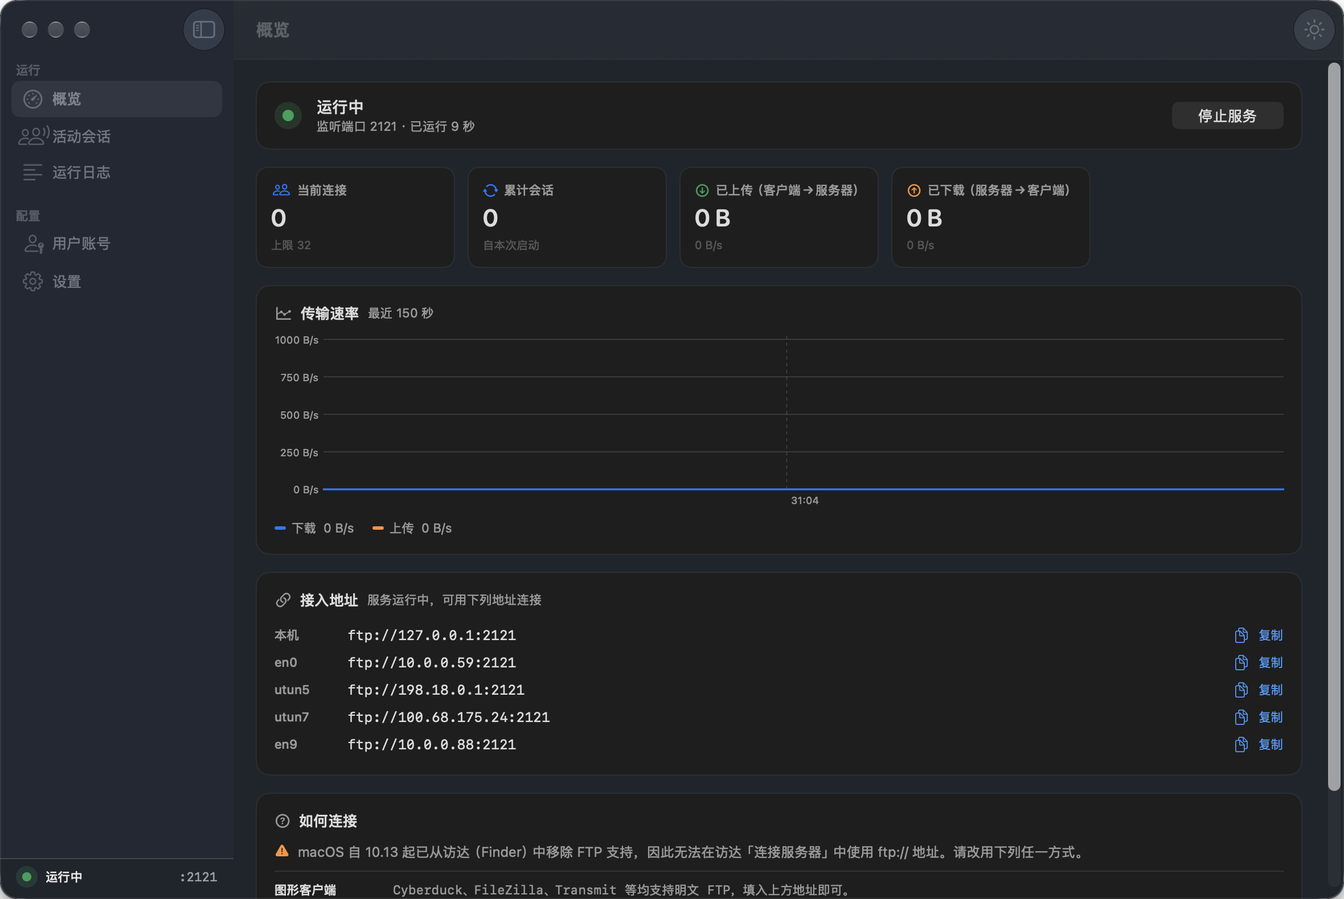
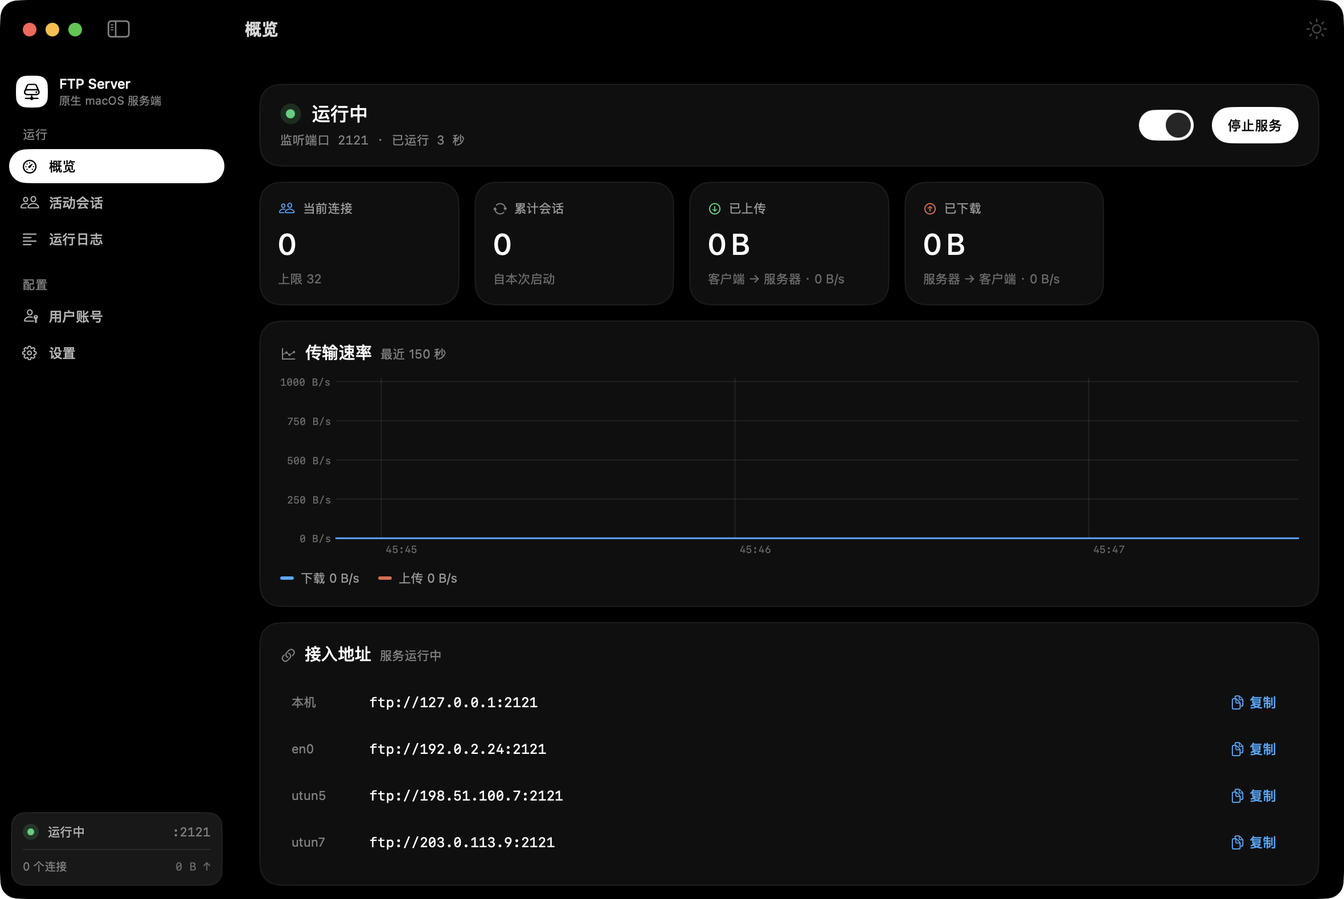
官网与文档：仓库改名为 FTPServer，更新链接与截图
- 仓库地址、Releases 链接、API 端点与 clone 目录名统一改为 FTPServer
- 截图按新界面重拍；接入地址改用 RFC 5737 保留地址，原图含真实内网与 Tailscale IP
- 新增 HANDOVER.md 交接文档，绝对路径与个人标识已脱敏

diff --git a/docs/index.html b/docs/index.html
@@ -265,7 +265,7 @@
       <a href="#commands" class="hide-sm">命令</a>
       <a href="#security" class="hide-sm">安全</a>
       <a href="#build" class="hide-sm">源码构建</a>
-      <a href="https://github.com/zdx8/FTPServer-macOS" class="hide-sm">GitHub</a>
+      <a href="https://github.com/zdx8/FTPServer" class="hide-sm">GitHub</a>
       <a href="#download" class="dl">下载</a>
     </nav>
   </div>
@@ -284,7 +284,7 @@
     <span class="badge">MIT 许可</span>
   </div>
   <div class="cta">
-    <a class="btn primary big" href="https://github.com/zdx8/FTPServer-macOS/releases/latest/download/FTPServer-macOS-universal.zip">
+    <a class="btn primary big" href="https://github.com/zdx8/FTPServer/releases/latest/download/FTPServer-macOS-universal.zip">
       <svg viewBox="0 0 24 24" fill="none" stroke="currentColor" stroke-width="2.2" stroke-linecap="round" stroke-linejoin="round" aria-hidden="true">
         <path d="M12 3v12"/><path d="m7 10 5 5 5-5"/><path d="M4 20h16"/>
       </svg>
@@ -305,7 +305,7 @@
 
     <div class="dl-box">
       <div class="dl-main">
-        <a class="btn primary big" href="https://github.com/zdx8/FTPServer-macOS/releases/latest/download/FTPServer-macOS-universal.zip">
+        <a class="btn primary big" href="https://github.com/zdx8/FTPServer/releases/latest/download/FTPServer-macOS-universal.zip">
           <svg viewBox="0 0 24 24" fill="none" stroke="currentColor" stroke-width="2.2" stroke-linecap="round" stroke-linejoin="round" aria-hidden="true">
             <path d="M12 3v12"/><path d="m7 10 5 5 5-5"/><path d="M4 20h16"/>
           </svg>
@@ -328,9 +328,9 @@
         </div>
 
         <div class="dl-alt">
-          <a href="https://github.com/zdx8/FTPServer-macOS/releases/latest/download/FTPServer-macOS-universal.zip.sha256">SHA256 校验文件</a>
+          <a href="https://github.com/zdx8/FTPServer/releases/latest/download/FTPServer-macOS-universal.zip.sha256">SHA256 校验文件</a>
           <span class="sep">·</span>
-          <a href="https://github.com/zdx8/FTPServer-macOS/releases">所有版本与更新日志</a>
+          <a href="https://github.com/zdx8/FTPServer/releases">所有版本与更新日志</a>
           <span class="sep">·</span>
           <a href="#build">从源码构建</a>
         </div>
@@ -589,8 +589,8 @@ curl -u alice:secret -T local.txt \
       <li>
         <h3>获取源码并编译</h3>
         <div class="snippet">
-          <pre>git clone https://github.com/zdx8/FTPServer-macOS.git
-cd FTPServer-macOS
+          <pre>git clone https://github.com/zdx8/FTPServer.git
+cd FTPServer
 swift build -c release --disable-sandbox</pre>
           <button class="copy">复制</button>
         </div>
@@ -709,11 +709,11 @@ swift build -c release --disable-sandbox</pre>
   <div class="wrap">
     <span>MIT 许可 · 用 Swift 与系统框架构建</span>
     <span class="spacer"></span>
-    <a href="https://github.com/zdx8/FTPServer-macOS/releases/latest/download/FTPServer-macOS-universal.zip">下载</a>
-    <a href="https://github.com/zdx8/FTPServer-macOS/releases">更新日志</a>
-    <a href="https://github.com/zdx8/FTPServer-macOS">GitHub 仓库</a>
-    <a href="https://github.com/zdx8/FTPServer-macOS/blob/main/README.md">README</a>
-    <a href="https://github.com/zdx8/FTPServer-macOS/issues">问题反馈</a>
+    <a href="https://github.com/zdx8/FTPServer/releases/latest/download/FTPServer-macOS-universal.zip">下载</a>
+    <a href="https://github.com/zdx8/FTPServer/releases">更新日志</a>
+    <a href="https://github.com/zdx8/FTPServer">GitHub 仓库</a>
+    <a href="https://github.com/zdx8/FTPServer/blob/main/README.md">README</a>
+    <a href="https://github.com/zdx8/FTPServer/issues">问题反馈</a>
   </div>
 </footer>
 
@@ -733,7 +733,7 @@ swift build -c release --disable-sandbox</pre>
   // 从 GitHub 读取最新版本号与附件大小，失败时保留页面里写好的静态值，
   // 这样发了新版本之后官网不必同步改动。
   (function () {
-    var endpoint = "https://api.github.com/repos/zdx8/FTPServer-macOS/releases/latest";
+    var endpoint = "https://api.github.com/repos/zdx8/FTPServer/releases/latest";
     fetch(endpoint, { headers: { Accept: "application/vnd.github+json" } })
       .then(function (response) { return response.ok ? response.json() : null; })
       .then(function (release) {

diff --git a/HANDOVER.md b/HANDOVER.md
@@ -1,0 +1,210 @@
+# FTP Server 交接文档
+
+> 补写日期：2026-10-24（历史项目补档，非交付时原始文档）
+
+## 1. 一句话结论
+
+FTP Server for macOS 是一个用 Swift + `Network.framework` 从零实现的原生 FTP 服务端桌面应用（RFC 959 + MLSD/MLST + EPSV），带 SwiftUI 界面、多账号、实时速率曲线与无界面 CLI，状态为**可交付（v1.0.0）**。适合在局域网内把 Mac 变成临时文件服务器（相机素材、备份中转），**不适合暴露公网**：不支持 FTPS/SFTP、口令哈希无 KDF。
+
+## 2. 交付物与位置
+
+| 交付物 | 路径 | 版本 | 校验 |
+|---|---|---|---|
[1 lines of base64/hex data omitted]
+| 校验文件 | `release/FTPServer-macOS-universal.zip.sha256` | — | 96 字节，内容与上表哈希一致（本次 `shasum -a 256` 复算一致） |
+| 应用包 | `dist/FTPServer.app` | `CFBundleShortVersionString` = 1.0.0，`CFBundleVersion` = `261109.2237`，`com.zdx8.ftpserver` | 4.6 MB，ad-hoc 签名（含 `_CodeSignature`）；2026-11-09 界面重构后重打 |
+| 官网静态页 | `docs/`（`index.html`、`icon.png`、`icon-512.png`、两张截图） | 页面静态值 v1.0.0 | 页面体积 2.2 MB 由脚本动态读 Release 覆盖 |
+| 源码 | 本目录，commit `e5a6985`（main，tag `v1.0.0` 在 `20fe4e0`） | 1.0.0 | **工作区不干净**：`M Scripts/package_app.sh`（见第 5 节）；另有本次补档新增的未跟踪 `HANDOVER.md` |
+
+远程仓库：`origin` = `https://github.com/zdx8/FTPServer.git`，`gitea` = `ssh://gitea/ZYG/FTPServer.git`。tag：仅 `v1.0.0`。
+
+**发布状态**：README 与 `docs/index.html` 都指向 GitHub Releases 的固定附件名 `FTPServer-macOS-universal.zip`（`releases/latest/download/...`，故链接永远指向最新版）；仓库内**没有 `gh-pages` 分支**，官网源为 `main` 的 `docs/`。线上 Release/Pages 是否仍有效、附件是否与本地 zip 同哈希：`未验证：本次未联网，接手人需自行确认`（可用第 9 节第 3 条比对）。
+
+> 附件名故意**不带版本号**（`Scripts/make_release.sh` 注释说明：官网永久链接需要固定名），版本号只写在 Release 标题、tag 与包内 `Info.plist`。
+
+## 3. 怎么跑起来
+
+命令取自 `README.md` 与 `Scripts/package_app.sh` / `make_release.sh`；**本次未执行构建**，首次构建耗时 `未验证：本次未执行构建，接手人需自行确认`。
+
+本机实测环境：macOS 27.2（Build 26B118）、arm64、Swift 6.4（swiftlang-6.4.0.34.1）、Python 3.13.12；CLT SDK 含 `MacOSX26.5.sdk` / `MacOSX27.sdk`。README 记录的开发环境是 macOS 27.0 / Xcode 26.6 / Swift 6.3.3（旧于当前机器，未复验）。
+
+```bash
+cd "<仓库根>"
+
+# 编译
+swift build -c release --disable-sandbox
+
+# 打包成 dist/FTPServer.app（含图标生成 + LaunchServices 登记 + 重启 Dock/Finder）
+bash Scripts/package_app.sh
+# 通用二进制、且不刷新本机图标缓存：UNIVERSAL=1 SKIP_ICON_CACHE_REFRESH=1 bash Scripts/package_app.sh
+
+# 启动
+open dist/FTPServer.app
+
+# 出 Release 附件（自动 UNIVERSAL=1 + 计算 SHA256）
+bash Scripts/make_release.sh
+```
+
+无界面模式（同一二进制，适合 launchd）：
+
+```bash
+dist/FTPServer.app/Contents/MacOS/FTPServer --headless \
+  --port 2121 \
+  --root ~/FTP\ Share \
+  --user alice '<口令>' ~/alice-share rwmd \
+  --user guest '<口令>' ~/FTP\ Share/Public r
+# 其他参数：--localhost / --pasv-host <IPv4> / --log-level debug|info|warning|error / --anonymous-root <目录>
+```
+
+前置条件：
+
+- macOS 14.0+；构建需 Swift 5.9+ 工具链（`swift-tools-version: 5.9`）。
+- 默认端口 **2121**（21 需 root，刻意避开）；防火墙需放行，绑定局域网时系统会弹「本地网络」权限。
+- 首次启动自动创建 `~/FTP Share/` 与 `~/FTP Share/Public/`。
+- 访达无法连接（macOS 10.13 起移除 FTP 客户端），需 Cyberduck / FileZilla / Transmit 或 `curl ftp://127.0.0.1:2121/`。
+
+## 4. 架构与关键设计
+
+```
+FTPServerApp.swift（按参数分流 GUI / --headless）
+├─ Headless.swift              无界面入口，构造 ServerConfig 直接 start
+├─ UI/                         只做展示与转发
+│   ├─ BenchoTheme             设计令牌层：颜色/圆角/间距/动效/字体，上游取自 bencho（MIT）
+│   ├─ Components              基础零件：BenchoButtonStyle、LiquidSwitch、BenchoSegmented、
+│   │                          ToastCenter + ToastStackView、BenchoTilt、CardContainer、
+│   │                          StatCard、ServerControlBar、AddressRow、SettingRow、Hairline
+│   ├─ ServerViewModel         配置持久化、统计采样、日志缓冲；单例
+│   └─ 概览 / 活动会话 / 日志 / 用户账号 / 设置 + MenuBarPanel + ThemeController
+├─ Core/                       不依赖 SwiftUI，可被测试直接编译
+│   ├─ FTPServer               监听、接入限流、会话注册表、统计与日志分发
+│   ├─ FTPSession              控制连接状态机与全部命令（814 行）
+│   ├─ FTPSession+Transfer     数据通道、PASV/PORT/EPSV、REST/RETR/STOR/APPE
+│   ├─ FTPDataChannel          发送器/接收器、ASCII 转换、文件源与汇
+│   ├─ FTPVirtualFileSystem    虚拟路径规范化、软链边界、LIST/MLSD 格式化
+│   ├─ Models                  配置、账号、口令散列、日志、错误
+│   └─ NetworkInterface        网卡枚举（PASV 通告与界面展示）
+└─ Scripts/                    打包、e2e、selfcheck、uicheck、图标
+```
+
+规模实测：`Sources/` 21 个 Swift 文件 / 6,249 行（其中 UI 层 3,245 行）；`Scripts/e2e_test.py` 683 行（70 处 `check(` 调用点，README 称 100 项断言）、`Scripts/selfcheck/main.swift` 304 行（35 处 `check(`）、`Scripts/uicheck/main.swift` 180 行（15 处，当前工具链下无法编译，见第 5 节）。
+
+关键决策：
+
+- **用 `Network.framework` 而不是 BSD socket** → 连接生命周期、队列与取消由框架管理，避免手写 socket 状态机 → 代价是无法做底层 socket 调优（如自定义 buffer/keepalive 参数）→ 若要做高并发或特殊网络语义，才考虑下移。
+- **每个会话一条串行队列，控制与数据连接共用** → 命令天然串行、无需为每条命令加锁；所有回调异步链式推进、不阻塞队列 → 代价是同一会话内大文件传输会占住该队列（仅影响本会话）→ 若需要控制连接在传输中仍能处理 `ABOR`，需确认现有异步链是否已覆盖（源码有 ABOR/看门狗，未逐行复核）。
+- **口令加盐 SHA-256 + 恒定时间比较** → 避免明文落盘与账号枚举 → 代价是无 PBKDF2/scrypt 密钥拉伸，弱口令可离线爆破 → 若要公网暴露，必须先引入 KDF + TLS。
+- **路径双重校验（逐段消 `.`/`..` + 解析软链后校验目标仍在根内）** → FTP 客户端可传任意路径，软链可绕过父目录校验 → 代价是每次读写多一次 `realpath` 解析 → 不可推翻。
+- **ad-hoc 签名 + 固定附件名** → 无开发者证书时保证本机可运行，官网可用永久链接 → 代价是他人下载后必被 Gatekeeper 拦 → 拿到证书后应改为「签名 + 公证 + 装订」。
+- **界面沿用 bencho 的设计语言，但重写为原生 SwiftUI** → bencho 是 React 组件集（framer-motion / three.js / Web Audio），与 SwiftUI 无代码级互通；引入它只有两条路：WebView 承载整个 UI（包体 3.1→10 MB+、菜单栏与原生快捷键要重做桥接），或改 Electron（3,004 行 Core 需重写）→ 故选第三条：把 `tokens.css` 的语义色、圆角与动效曲线映射为 `BenchoTheme`，把 8 个可对应的交互范式（液体开关、Toast 栈、滚动数字、磁吸分段、悬停倾斜、堆叠流量条、权限胶囊、反色选中态）用 SwiftUI 重写 → 代价是动效为**近似实现**（上游的 SVG goo 滤镜在 SwiftUI 无等价物，液态开关改用胶囊拉伸近似），不是逐像素一致 → 若日后要求与 bencho 逐像素对齐，才需要考虑 WebView 方案。
+
+## 5. 已完成 / 未完成 / 已知问题
+
+**已完成**：PASV/EPSV/PORT 三种数据通道（含 bounce 防护）；二进制/ASCII 双向转换（跨块不错切 CRLF）；`REST` 断点续传、`APPE` 追加；目录操作 `PWD/CWD/CDUP/MKD/RMD/DELE/RNFR/RNTO` 与 `X*` 别名；`SIZE/MDTM/MLST/STAT`、`FEAT`；匿名 + 多账号（独立根目录 + `r/w/d/m` 权限位）；空闲超时、数据停滞看门狗、`ABOR`、异常断开清理；实时速率曲线、逐会话流量、分级日志（口令打码）；菜单栏常驻；浅/深色主题；无界面 CLI。
+
+**未完成（README 明确列出，非缺陷）**：不支持 FTPS（`AUTH TLS` → 502）与 SFTP；未实现 `STOU/REIN/SMNT/SITE`（统一 502）；无速率限制、磁盘配额、目录级 ACL；无公证。
+
+**已知问题**：
+
+- **边缘｜工作区有未提交改动**：`Scripts/package_app.sh` 被修改（`git status` 显示 ` M`）。diff 内容是把 `"${ARCH_FLAGS[@]}"` 改成 `${ARCH_FLAGS[@]+"${ARCH_FLAGS[@]}"}` 并加注释——修复 `set -u` 下空数组展开报 `unbound variable`（macOS bash 3.2）。**该修复不在 v1.0.0 tag 里**，接手人需决定提交或丢弃。
+- **影响体验｜口令哈希无 KDF**：加盐 SHA-256 对局域网可信共享够用，公网场景不足（README「安全模型」附注已声明）。
+- **影响体验｜ad-hoc 签名**：拷到别的机器必被 Gatekeeper 拦；需右键打开或 `xattr -dr com.apple.quarantine`。
+- **边缘｜README 测试数与实际调用点数不一致**：README 称 e2e「100 项断言」，源码 `check(` 调用点为 70（循环内可能多次执行）。**2026-11-09 已实跑：100/100 通过（11.8 秒）**，口径以实跑为准。
+- **影响体验｜界面层回归测试当前无法编译**：`Scripts/uicheck/main.swift` 直接用 `swiftc` 编译时，SwiftUI 的 `@State` 宏报 `SwiftUIMacros.StateMacro ... malformed response`（Xcode 26 的 swift-plugin-server 在 Swift 6.4.2 工具链下的故障，与本次改动无关，改动前的旧版同样编译不过）。**替代验证**：真机启动 + 窗口级截图逐页核对（浅色/深色、空态与真实会话各一轮），并由 e2e 的 100 项覆盖协议层。修复方向：改用 `swift build` 的 target 承载该自检，或换回带完整宏插件路径的 Xcode 工具链。
+- **边缘｜开关与分段控件不参与键盘 Tab 焦点**（有意）：`LiquidSwitch` 自绘胶囊，接入 `.focusable()` 后系统焦点环会在药丸外再套一圈高亮，且窗口启动时首个可聚焦视图会自动取得焦点、常驻光晕。故只保留 VoiceOver 的 `accessibilityAction`，键盘路径是 ⌘R 启停服务；`BenchoSegmented` 同理，需鼠标点选。
+- **边缘｜Toast 落点固定在右下角**：右上角是启停开关与主按钮，早前版本放在右上会遮挡操作，且 overlay 铺满整层时会吃掉 2.6 秒内的全部点击。现改为按内容尺寸贴右下，不拦截其他区域的指针事件。
+- **边缘｜`release/` 未重出**：界面重构后只重打了 `dist/`，`release/FTPServer-macOS-universal.zip` 仍是 1.0.0 的旧产物，与 `dist/` 不同源。对外发布前必须重跑 `bash Scripts/make_release.sh` 并更新第 2 节哈希。
+
+## 6. 外部依赖与凭据
+
+- SwiftPM 依赖：**无第三方包**；实际 import 为 SwiftUI / AppKit / Network / Charts / Combine / CryptoKit / Darwin / Foundation。
+- 许可证：MIT（`LICENSE`，1,061 字节）。
+- 凭据位置：**账号口令散列**保存在 `~/Library/Application Support/FTPServer/config.json` 的账号条目里（加盐 SHA-256，非明文）。本文档不复制该文件内容。查看有哪些账号（不打印散列）：
+  ```bash
+  python3 -c "import json,os;d=json.load(open(os.path.expanduser('~/Library/Application Support/FTPServer/config.json')));print([a.get('username') for a in d.get('accounts',[])])"
+  ```
+- 分发凭据：代码托管 SSH key 在 `~/.ssh/`，钥匙串条目仅供推送到 GitHub/Gitea；不放文档。
+- 客户端连接口令由用户自设，**不要写进任何提交或文档**；日志里 `PASS`/`ACCT` 参数会被打码。
+
+## 7. 数据与配置在哪
+
+- 配置：`~/Library/Application Support/FTPServer/config.json`（端口、绑定范围、默认/匿名根目录、超时、最大连接、账号与口令散列、日志级别、关窗行为）。
+- 配置损坏时自动改名为 `config.corrupt-<epoch>.json` 并回退默认值（`ServerViewModel.loadConfig`）。
+- 共享目录：默认 `~/FTP Share/`，匿名根 `~/FTP Share/Public/`（默认只读）；账号可各自指定根目录。
+- 日志：**只在内存**（界面「运行日志」页，可过滤/搜索/复制），不落盘。
+- 无数据库、无缓存目录。
+
+重置到初始状态（先退出应用；配置里有账号散列，建议备份）：
+
+```bash
+osascript -e 'quit app "FTP Server"' 2>/dev/null
+mv ~/Library/Application\ Support/FTPServer ~/Desktop/FTPServer-config-backup-$(date +%Y%m%d-%H%M)
+# 需要连共享目录一起重置时（会动用户文件，先确认）：
+# mv ~/FTP\ Share ~/Desktop/FTP-Share-backup-$(date +%Y%m%d-%H%M)
+```
+
+## 8. 维护手册（出问题先看这里）
+
+| 现象 | 排查步骤 | 日志位置 |
+|---|---|---|
+| 双击提示「无法验证开发者/已损坏」 | `codesign -dv dist/FTPServer.app` 确认 ad-hoc；右键 → 打开；或 `xattr -dr com.apple.quarantine` | 系统「隐私与安全性」 |
+| 客户端连不上（本机） | `curl -v ftp://127.0.0.1:2121/`；确认服务已启动、端口未被占用：`lsof -nP -iTCP:2121` | 界面「运行日志」 |
+| 局域网其他设备连不上 | 确认不是 `--localhost`；系统设置 → 网络 → 防火墙放行；首次运行需授予「本地网络」权限；`NetworkInterface` 列出的地址是否与客户端同网段 | 界面「运行日志」 |
+| PASV 能登录但列目录卡住 | NAT/多网卡下 PASV 通告地址不对，设 `--pasv-host <IPv4>` 或在设置里填「被动模式对外地址」 | 界面「运行日志」 |
+| 上传/下载中断 | 看是否触发空闲/数据停滞超时（设置页可调）；确认目标目录权限位含 `w`；日志里 550/425 响应码 | 界面「运行日志」 |
+| 账号登录失败 | 确认账号根目录存在且可读；权限位（`r/w/d/m`）是否覆盖该操作；口令散列不匹配只能重建账号 | 界面「运行日志」（PASS 已打码） |
+
+## 9. 复现与验证清单
+
+```bash
+cd "<仓库根>"
+
+# 1. 版本与 bundle
+plutil -p dist/FTPServer.app/Contents/Info.plist | grep -E "ShortVersion|BundleVersion|Identifier"
+# 预期：1.0.0 / 261017.0311 / com.zdx8.ftpserver
+
+# 2. 架构（dist 里是最后一次 arm64 构建；release zip 由脚本断言含双架构）
+lipo -archs dist/FTPServer.app/Contents/MacOS/FTPServer
+# 预期：arm64；zip 内是否真为通用二进制 `未验证：未解压核对`
+
+# 3. 发布包校验（本地复算应与 .sha256 文件一致）
+shasum -a 256 -c release/FTPServer-macOS-universal.zip.sha256
+# 预期：FTPServer-macOS-universal.zip: OK（哈希 07f49b7c…203aae，2,286,383 字节）
+
+# 4. 仓库状态
+git log -1 --oneline && git tag && git status --porcelain
+# 预期：e5a6985 … / v1.0.0 / " M Scripts/package_app.sh" 与 "?? HANDOVER.md"
+
+# 5. 源码规模
+find Sources -name "*.swift" | wc -l && find Sources -name "*.swift" -exec wc -l {} + | tail -1
+# 预期：20 / 5273 total
+
+# 6. 协议一致性测试（需运行，会临时起服务）
+swift build -c release --disable-sandbox
+python3 Scripts/e2e_test.py "$(swift build -c release --show-bin-path --disable-sandbox)/FTPServer" 21321
+# 预期：README 称 100 项断言全过；本次未运行
+
+# 7. Core 层自检（需运行）
+swiftc -O -o /tmp/sc Sources/FTPServer/Core/*.swift Scripts/selfcheck/main.swift && /tmp/sc
+# 预期：35 处 check 全过（README 覆盖会话发布/两种绑定/配置兼容/软链写入防护/截断检测）
+```
+
+## 10. 下一步建议
+
+1. **先提交或丢弃 `package_app.sh` 的未提交修复**：这是 `set -u` 下真实会中断打包的 bug，留在工作区会被下一次 `git checkout` 无声丢掉。只动该脚本 + 一次提交。
+2. **补 FTPS（`AUTH TLS`）**：当前明文传输是最大短板；动 `FTPSession.swift`（命令状态机）、`FTPDataChannel.swift`（TLS 包装）、`Models.swift`（证书配置）。
+3. **口令 KDF**：把加盐 SHA-256 换成 PBKDF2/scrypt，并保留旧散列的登录迁移路径；动 `Models.swift` 的口令散列与校验。
+4. **日志落盘**：目前日志只在内存，出事无法事后取证；给 `Models.swift` 的日志分发加可选文件 sink（按天轮转）。
+5. **公证发布流水线**：当前 `make_release.sh` 只做 ad-hoc；补证书分支（`codesign --options runtime` + `notarytool` + `stapler`）。
+
+## 11. 变更历史
+
+| 日期 | 版本 | 改了什么 |
+|---|---|---|
+| 2026-09-13 | — | `a66d8c2` 初始提交：原生 macOS FTP 服务端 |
+| 2026-09-13 | v1.0.0 | `20fe4e0` 新增发布流程：通用二进制打包脚本（tag `v1.0.0`） |
+| 2026-09-13 | v1.0.0 | `e5a6985` 官网重做：加入下载安装按钮；附件改为与版本无关的固定名（当前 HEAD） |
+| 2026-09-13 | v1.0.0 | `release/` 产物生成于 14:45（zip 2,286,383 字节 + .sha256） |
+| 未提交 | — | `Scripts/package_app.sh`：bash 3.2 空数组展开修复（工作区 ` M`，未进 v1.0.0） |
+| 2026-11-09 | v1.0.0 | 界面按 bencho（MIT）设计语言重构：新增 `UI/BenchoTheme.swift` 令牌层，重写 `UI/Components.swift` 与六个视图；`dist/` 重打为 261109.2219（4.6 MB）；e2e 100/100、selfcheck 通过；`release/` 未重出 |
+| 2026-11-09 | v1.0.0 | 标题栏与内容区同色：`.toolbarBackground(.hidden, for: .windowToolbar)` + `titlebarAppearsTransparent` + `window.backgroundColor = Bencho.bgNS`；实测浅色 `#FFFFFF`、深色 `#000000`，与页面底色一致，无分隔线 |
+| 2026-11-09 | v1.0.0 | 缺陷修复：开关光标栈失衡（视图隐藏/禁用时未 pop）、拖拽松手回弹闪跳、窗口缩到 1000pt 以下会话表再次错位（改为内容最小尺寸兜底）、菜单栏主按钮胶囊不随宽度伸展、Toast 遮挡控制条并吃掉全层点击、卡片头部右侧胶囊基线偏移；`dist/` 重打 261109.2237 |

diff --git a/README.md b/README.md
@@ -13,14 +13,14 @@
 
 ## 下载安装
 
-**[⬇ 下载最新版](https://github.com/zdx8/FTPServer-macOS/releases/latest/download/FTPServer-macOS-universal.zip)** —— 通用二进制，Apple Silicon 与 Intel 均可直接运行。
+**[⬇ 下载最新版](https://github.com/zdx8/FTPServer/releases/latest/download/FTPServer-macOS-universal.zip)** —— 通用二进制，Apple Silicon 与 Intel 均可直接运行。
 
 | | |
 |---|---|
 | 系统要求 | macOS 14.0 或更高 |
 | 文件名 | `FTPServer-macOS-universal.zip`（约 2.2 MB） |
-| 校验文件 | [SHA256](https://github.com/zdx8/FTPServer-macOS/releases/latest/download/FTPServer-macOS-universal.zip.sha256) |
-| 历史版本 | [所有 Releases](https://github.com/zdx8/FTPServer-macOS/releases) |
+| 校验文件 | [SHA256](https://github.com/zdx8/FTPServer/releases/latest/download/FTPServer-macOS-universal.zip.sha256) |
+| 历史版本 | [所有 Releases](https://github.com/zdx8/FTPServer/releases) |
 
 下载链接固定不变，始终指向最新版本。
 
@@ -75,6 +75,11 @@ shasum -a 256 -c FTPServer-macOS-universal.zip.sha256   # 预期输出：OK
 **菜单栏常驻**：可关闭 Dock 图标退居菜单栏，面板内查看状态、启停服务、复制接入地址与日志摘要。
 
 **主题**：工具栏右上角按钮在浅色 / 深色间切换，设置页可选「跟随系统」。
+
+**视觉与交互语言**：界面采用 [bencho](https://github.com/cabralorenzo/bencho)（MIT）的设计令牌与交互范式，
+在 SwiftUI 中重新实现，不含任何 Web 运行时与第三方依赖——纸白/纯黑两套底色、发丝线代替投影、
+反色胶囊表示选中、液体开关、滚动数字、悬停倾斜与右上角 Toast 栈均为原生绘制。
+`Sources/FTPServer/UI/BenchoTheme.swift` 记录全部取值的上游出处。
 
 ---
 
